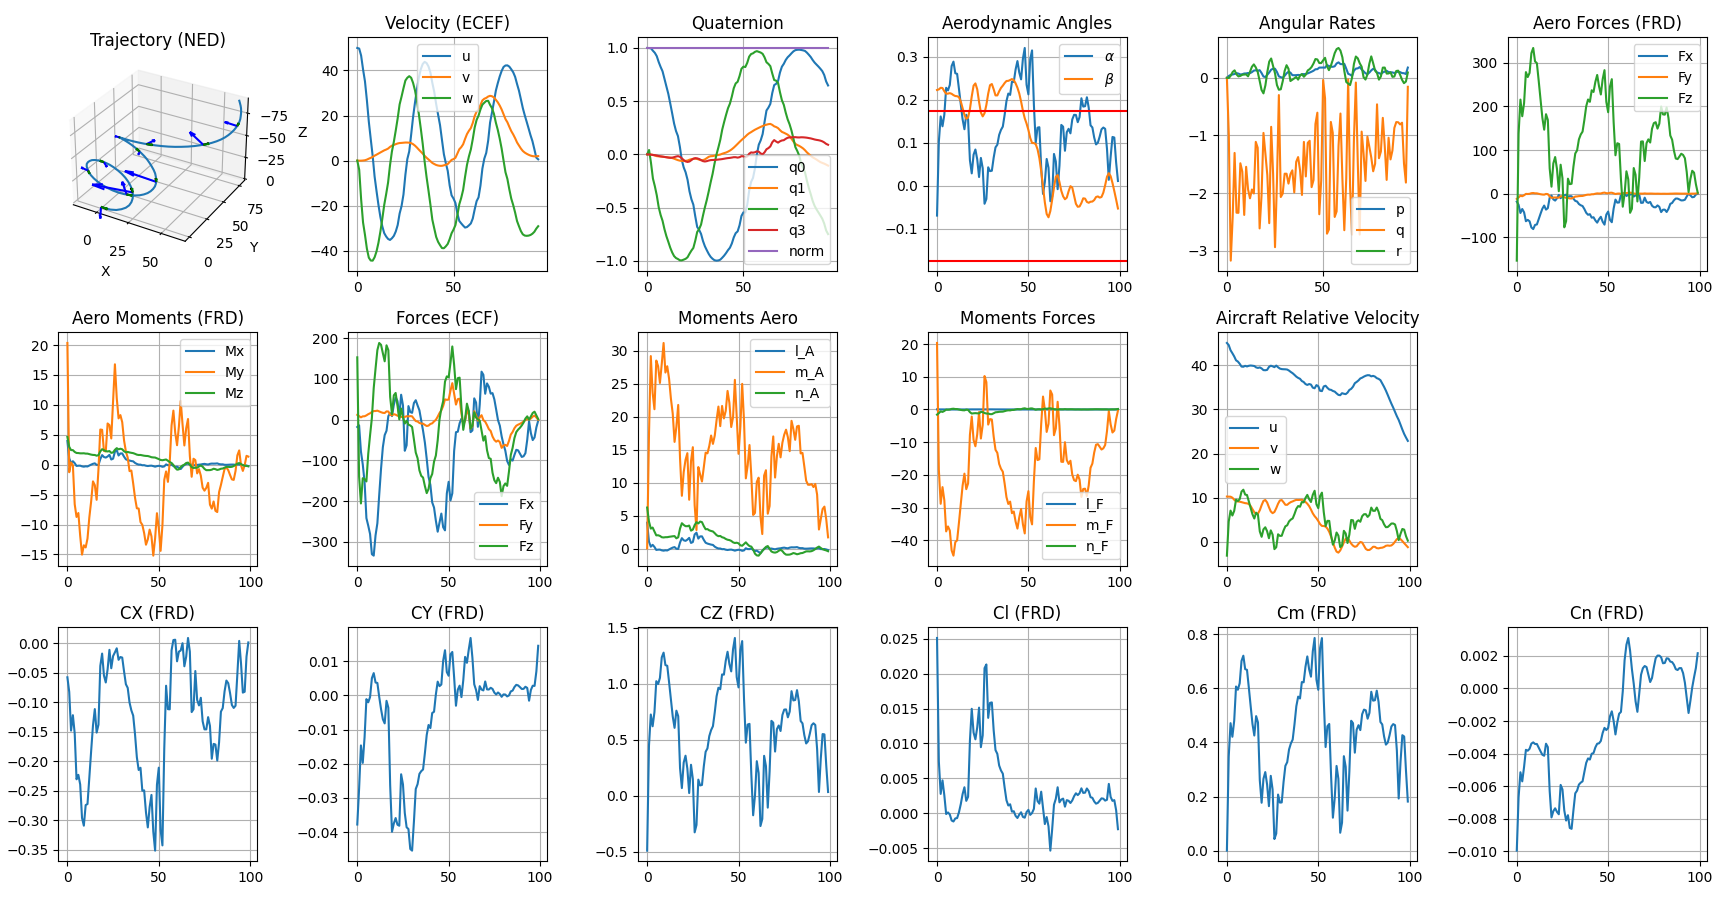
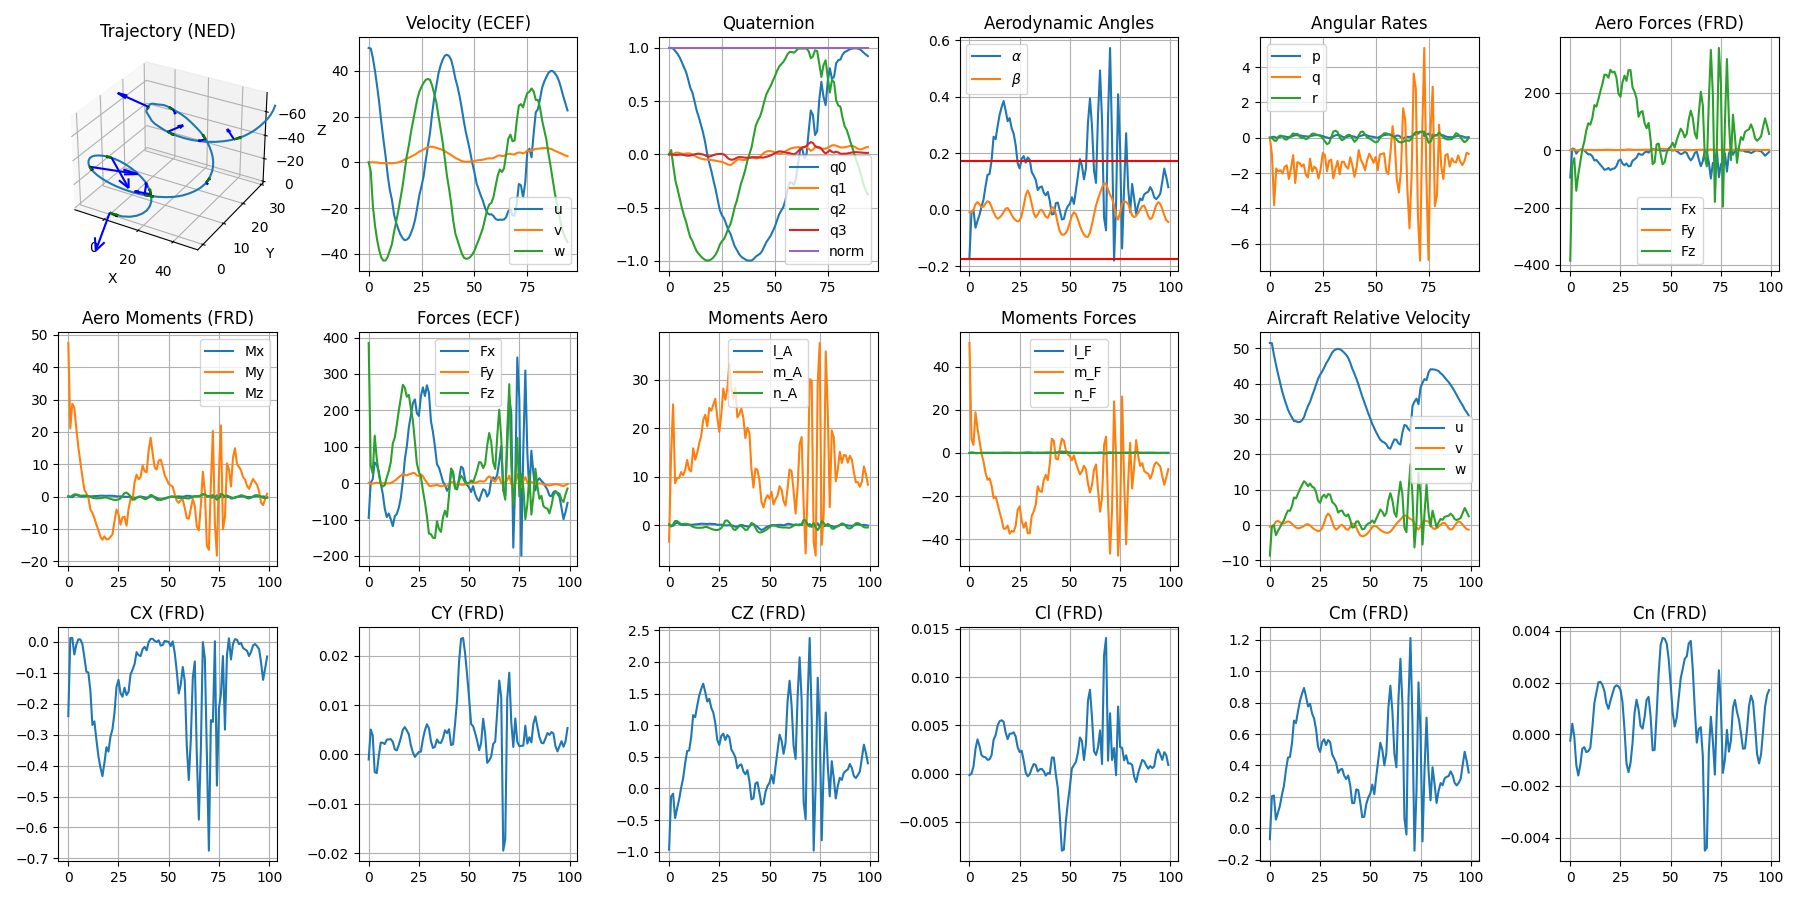
minor dynamics update

diff --git a/src/dynamics.py b/src/dynamics.py
@@ -640,6 +640,7 @@ class Aircraft:
 
 if __name__ == '__main__':
     aircraft_params = json.load(open(os.path.join(BASEPATH, 'data', 'glider', 'glider_fs.json')))
+    perturbation = True
 
     model = load_model()
     
@@ -677,7 +678,8 @@ if __name__ == '__main__':
         else:
             state_list[:, i] = state.full().flatten()
             state = aircraft.state_update(state, control, dt)
-            control[6:9] += 2 * (np.random.rand(3) - 0.5)
+            if perturbation:
+                control[6:9] += 2 * (np.random.rand(3) - 0.5)
             t += 1
 
     # state_list = state_list[:, :t-10]

diff --git a/main/control.py b/main/control.py
@@ -176,7 +176,7 @@ def control_constraints(
         #     )
         # )
     
-    opti.subject_to(control[6:9,:] == [0,0,0]
+    opti.subject_to(control[6:9,:] == [0, 0, 0]
         # opti.bounded(
         #     [0, 0, 0],
         #     control[6:9,:],
